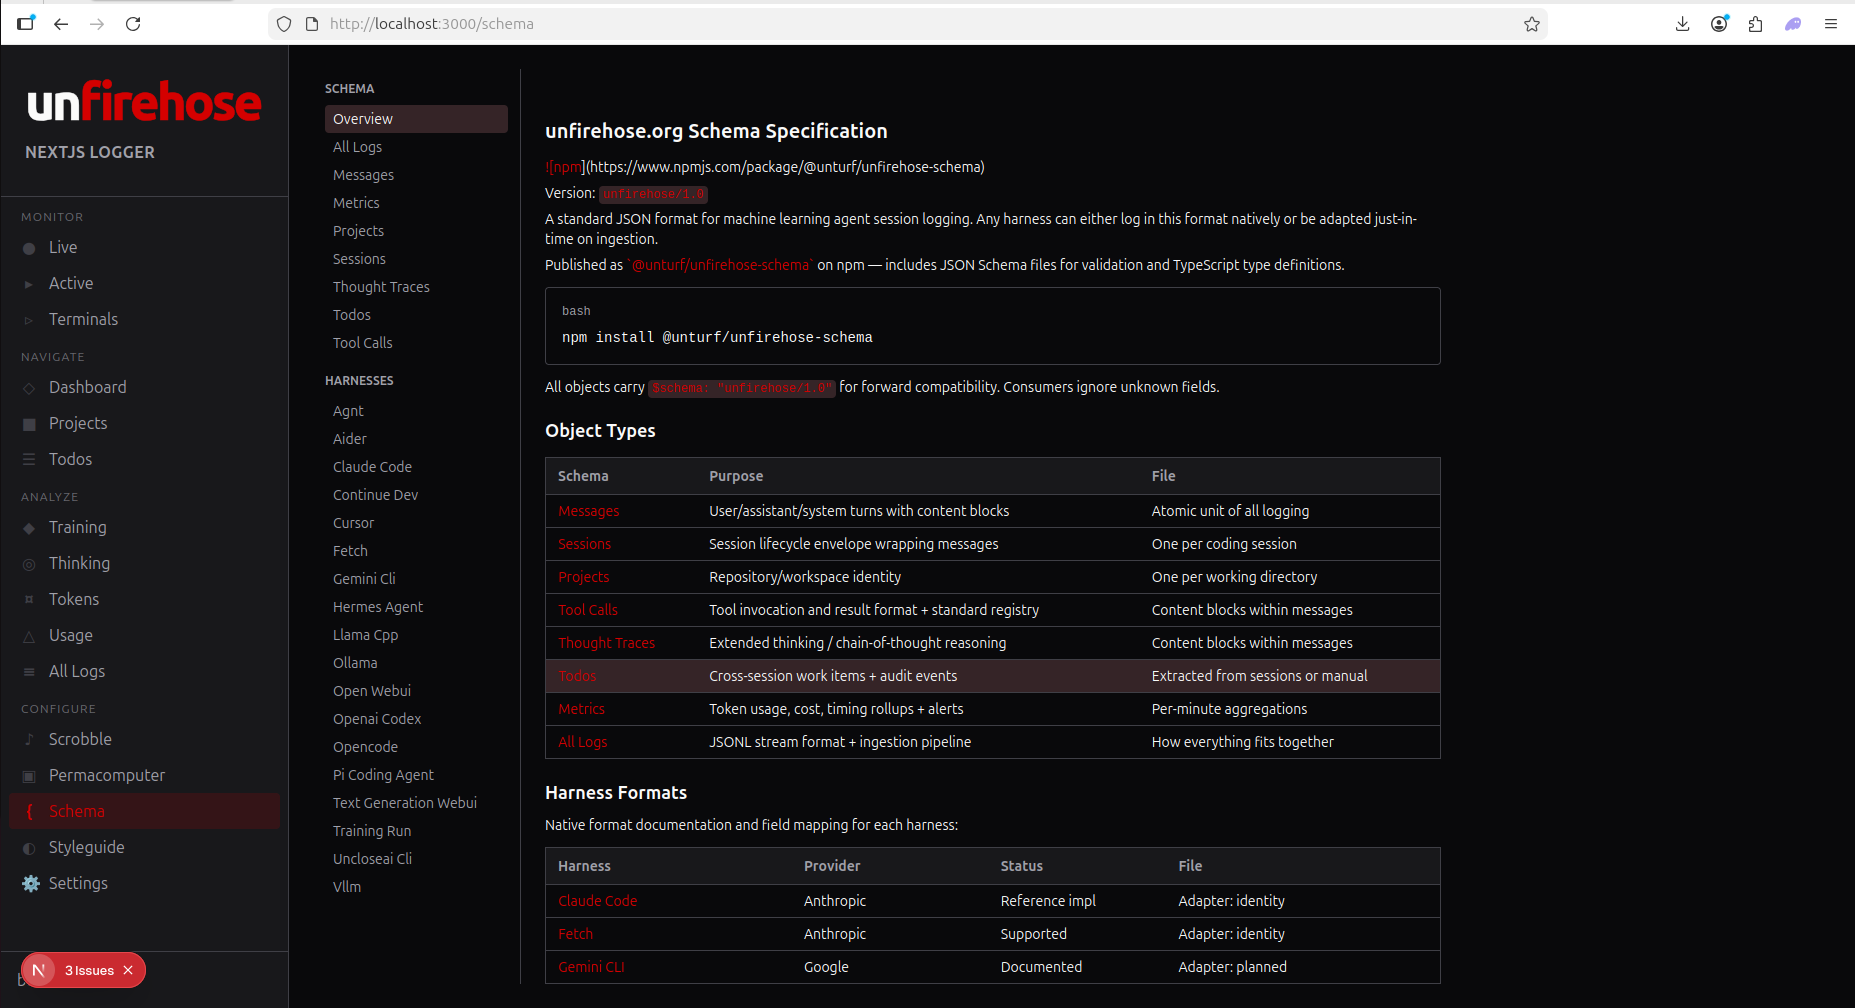
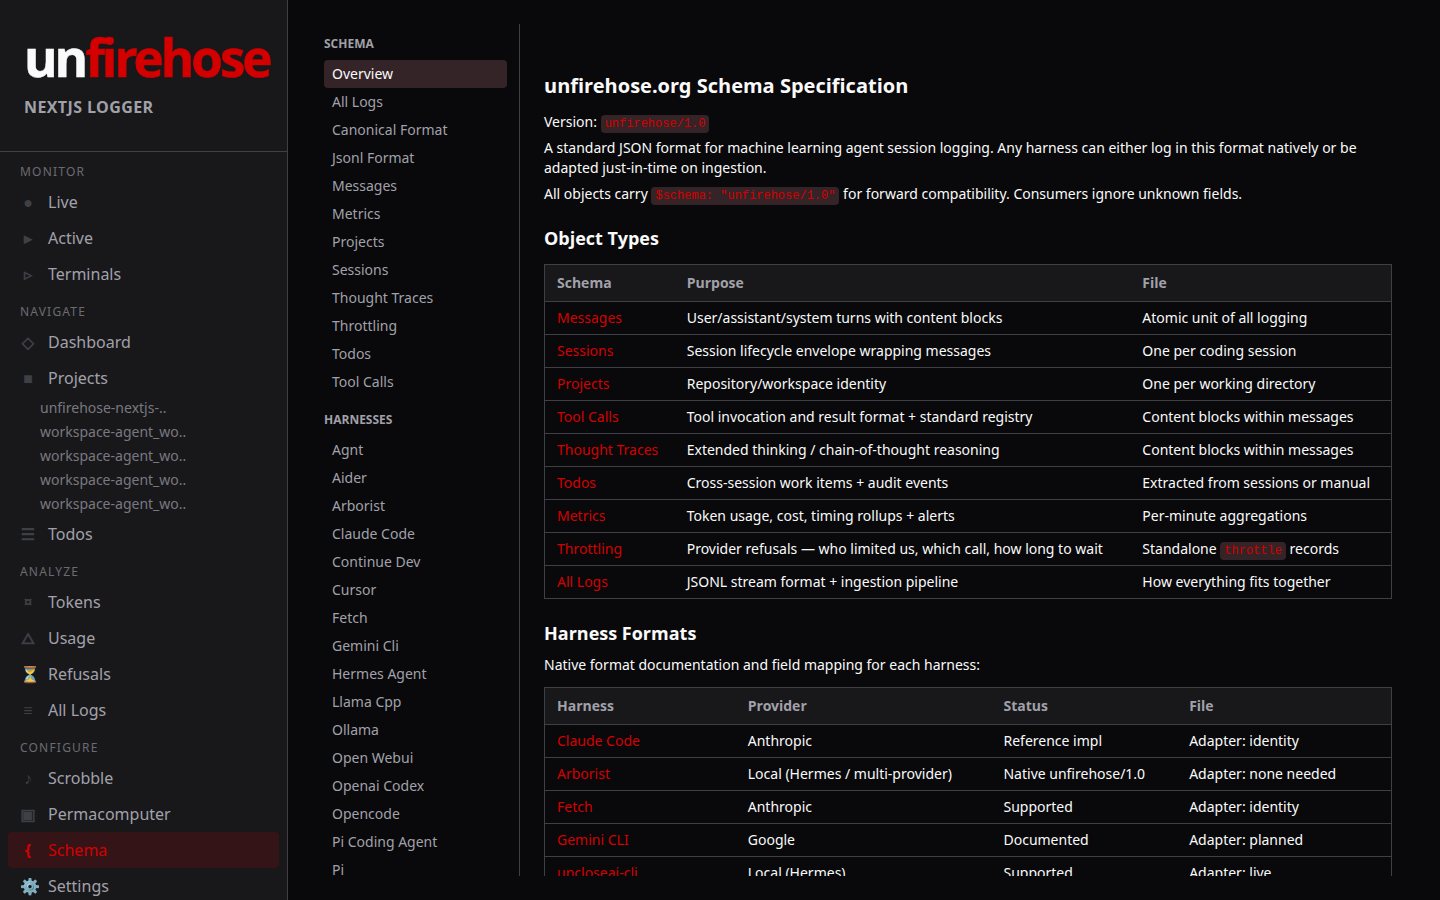
readme: gallery reshot, Refusals documented, stale claims out
The gallery was eleven March screenshots of a product that has moved: it
showed a Training page that no longer exists and a Projects list that names
every repo on the machine, and it had no picture of Refusals at all — the
largest thing built since. Twelve fresh shots, same set the site uses, so
the two galleries stop disagreeing.

Features gains a Refusals entry and an honest Usage Monitor one (calibrated
rules on billable tokens, not the old threshold table). What's new leads with
refusals, vendor status and the price ledger instead of March's headlines.

Also: 16 harness docs is now 19, and we no longer name a specific git server
we do not run.

Changed region(s): [[0.0, 0.0, 1.0, 0.9956], [0.0, 0.1867, 0.2188, 0.9956]]

diff --git a/README.md b/README.md
@@ -20,11 +20,13 @@ unfirehose does all of that, on your laptop, no API keys required.
 
 ## What's new
 
-- **Cost split everywhere** — every model + harness row breaks equivalent cost into input / output / cache-read / cache-write. See which token type is actually costing you on opus-4-7 (spoiler: cache reads).
-- **Reasoning visibility** — Reasoning filter on `/live`, `/active`, `/logs`, and the session viewer. opus-4-7 ships sealed reasoning (signatures, no readable text); we surface that fact honestly with a `·sealed` badge so it isn't mistaken for "no reasoning happened."
-- **Multi-harness** — agnt, uncloseai, fetch, arborist all ingested into the same database as Claude Code. One session viewer, one project list, one token analysis.
-- **Single-source nav** — every page is registered in `packages/ui/components/layout/nav-items.ts`. Sidebar, sitemap, and styleguide derive from the same list, so they can't drift apart.
-- **`?project=` URL filter** — `/tokens` and `/todos` both pre-filter to a single project when the URL carries `?project=<name>`. Project detail pages link straight in.
+- **Refusals** — every throttle, quota hit, overload, timeout and dead model in one page, attributed to the upstream that actually refused. A second tab polls each vendor's own incident feed every minute and probes the ones with no status page, so "is it me or them" stops being six browser tabs.
+- **Alert rules that mean something** — one click calibrates every threshold to 1.5x the p95 of its own window over your last seven days. Billable tokens alert by default; `total_tokens` does not, because cache reads are ~90% of volume at a tenth of the price.
+- **A price book with provenance** — every dollar on every page is booked at the price in force the day the tokens were spent, from five public feeds kept in an append-only ledger.
+- **Cost split everywhere** — every model + harness row breaks equivalent cost into input / output / cache-read / cache-write. See which token type is actually costing you (spoiler: cache reads).
+- **Reasoning visibility** — Reasoning filter on `/live`, `/active`, `/logs`, and the session viewer. Models that ship sealed reasoning (signatures, no readable text) get a `·sealed` badge, so it is never mistaken for "no reasoning happened."
+- **19 harnesses** — Claude Code, uncloseai-cli, agnt, arborist, aider, Cursor, Continue, Gemini CLI, Codex, OpenCode, Pi, Ollama, vLLM, llama.cpp, Open WebUI, text-generation-webui, Fetch and more, all in one database. One session viewer, one project list, one token ledger.
+- **Rename-resilient projects** — identity comes from the git root commit and origin, not the encoded path, so renaming a repo on disk keeps its whole history.
 
 ## Screenshots
 
@@ -49,19 +51,25 @@ Currently running agent sessions across every harness. Each card carries a harne
 ### Live Tailing
 SSE-powered real-time view across every active session. Doom-scrollable feed. Show / hide reasoning. Reasoning-only filter for when you want to focus on what your agents are thinking. Sealed counts surfaced so opus-4-7 sessions don't look broken.
 
+### Refusals
+Every way a provider said no, in one place — and whether the provider admits it.
+- Throttles proper (rate limit, concurrency, quota, overloaded) separated from the other refusals (5xx, timeout, model gone, content policy), because retrying harder fixes none of them and makes concurrency worse
+- A live banner: hard refusals in the last 15 and 60 minutes, regardless of the range the tables below are showing
+- Attributed to the **upstream that actually refused**, not just the harness that got refused — recorded at the moment of failure by harnesses that route across providers, since no downstream text scan can recover it
+- Every row carries its HTTP status; a 529 and a 503 under one kind stay apart
+- A second tab polls each vendor's own incident feed every minute (Anthropic, OpenAI, xAI, OpenRouter) and probes the ones with no status page, so "is it me or them" is one glance
+
 ### Usage Monitor
-Plan billing and alerts:
-- Per-minute token timeline (auto-buckets: minute / hour / day based on window)
-- Per-project usage breakdown with stacked bars
-- Agent Standup — 30-day activity summary per project with recent prompts
-- Prompts correlated with git commits (green badge = committed, yellow = uncommitted, orange = unpushed)
-- Configurable alert thresholds (per-minute, 5min, 15min, hourly windows)
-- Alert history with forensic drill-down detail pages — project + model breakdown, sealed-reasoning surfacing
+Alert rules on the tokens you actually pay for.
+- One click calibrates every threshold to 1.5x the p95 of its own rolling window over your last seven days — hand-guessed plan-tier numbers either never fire or fire every window
+- Billable metrics (uncached input, output) enabled by default; `total_tokens` is off, because cache reads are ~90% of volume at a tenth of the price and alerting on them measures context churn, not spend
+- Moving a threshold acknowledges the alerts that were measured against the old one
+- Breach history per day, with the raw list behind a disclosure
 
 ### Projects
 - Project cards with session count, message volume, and 30-day cost
 - Expandable project detail with git info, remotes, recent commits, CLAUDE.md preview
-- Commit SHAs linked to all upstream remotes (multi-remote mirrors across Gitea, GitHub, GitLab)
+- Commit SHAs linked to all upstream remotes (multi-remote mirrors, whatever you host on)
 - Per-project session browser with git branch context
 - Full session viewer with message timeline, tool calls, reasoning blocks (sealed or readable), and token usage
 - "Token detail →" link drops you into `/tokens?project=…` for the deep breakdown
@@ -111,7 +119,7 @@ This is a Turborepo monorepo. Four packages are published to npm under the [`@un
 | Package | npm | Description |
 |---------|-----|-------------|
 | [`@unturf/unfirehose`](packages/core) | [![npm](https://img.shields.io/npm/v/@unturf/unfirehose)](https://www.npmjs.com/package/@unturf/unfirehose) | Core data layer — ingestion, SQLite schema, types, PII detection, formatters |
-| [`@unturf/unfirehose-schema`](packages/schema) | [![npm](https://img.shields.io/npm/v/@unturf/unfirehose-schema)](https://www.npmjs.com/package/@unturf/unfirehose-schema) | [unfirehose/1.0](packages/schema/docs/README.md) spec — JSON Schema, TypeScript types, 16 harness adapter docs |
+| [`@unturf/unfirehose-schema`](packages/schema) | [![npm](https://img.shields.io/npm/v/@unturf/unfirehose-schema)](https://www.npmjs.com/package/@unturf/unfirehose-schema) | [unfirehose/1.0](packages/schema/docs/README.md) spec — JSON Schema, TypeScript types, 19 harness adapter docs |
 | [`@unturf/unfirehose-router`](packages/router) | [![npm](https://img.shields.io/npm/v/@unturf/unfirehose-router)](https://www.npmjs.com/package/@unturf/unfirehose-router) | CLI daemon — watches JSONL and forwards to cloud |
 | [`@unturf/unfirehose-ui`](packages/ui) | [![npm](https://img.shields.io/npm/v/@unturf/unfirehose-ui)](https://www.npmjs.com/package/@unturf/unfirehose-ui) | Shared React components for dashboard UI |
 
@@ -347,57 +355,95 @@ Built by humans and agents working together. From the first `create-next-app` to
 
 ## Gallery
 
+Every shot is this dashboard running on one developer's machine, taken the day
+it was committed.
+
+### Refusals
+Every way a provider said no, in one place: throttles, quota, overloads, 5xx,
+and models that stopped existing. A banner answers "is it happening right now"
+before any table loads, and each row names the harness, the upstream that
+actually refused, the call, and the status.
+
+![Refusals](docs/screenshots/refusals.png)
+
+### What Vendors Admit
+The second half of the same question. Each provider's own incident feed,
+polled every minute, beside our own counts, so "is it me or them" is one glance
+rather than six browser tabs. A vendor with no status page gets probed directly
+and the card says that is what happened.
+
+![Vendor status](docs/screenshots/vendor-status.png)
+
 ### Dashboard
-Time-range filtered overview: session count, message volume, model distribution, equivalent API cost. Activity charts by day and hour with automatic timezone detection. Model usage donut with per-model cost breakdown.
+Time-range filtered overview: session count, message volume, model
+distribution, equivalent API cost. Activity by day and hour with automatic
+timezone detection, and a day-by-hour hotspot overlay showing when agents run
+hottest.
 
 ![Dashboard](docs/screenshots/dashboard.png)
 
 ### Live Feed
-Real-time SSE stream of all active sessions. Watch agents work as they stream responses, make tool calls, and reason. Color-coded by harness (Claude Code, Fetch, uncloseai, agnt). Reasoning-only filter to focus on the thinking part.
+Real-time SSE stream across every active session. Watch agents work as they
+stream responses, call tools, and reason. Colour-coded by harness, with a
+reasoning-only filter for when the thinking is the point.
 
 ![Live Feed](docs/screenshots/live-feed.png)
 
-### Active Sessions
-Grid of currently running agent sessions. Each card shows harness type, project, model, message count, elapsed time, and a reasoning indicator (with sealed-by-Anthropic disclosure for opus-4-7).
+### Tokens
+Per-model and per-harness breakdown with the **full cost split** — input,
+output, cache-read, cache-write — booked at the price in force on the day the
+tokens were spent, from public price books kept in an append-only ledger. Cache
+hit rate expressed as a rate, and prefix-cache counters measured on our own
+inference nodes.
 
-![Active Sessions](docs/screenshots/active-sessions.png)
-
-### Projects
-All discovered projects with session count, message volume, and 30-day cost. Dynamic commit badges show git activity. Distinguishes "no projects yet" from "all clean across N projects" — fresh installers get a Get Started panel.
-
-![Projects](docs/screenshots/projects.png)
+![Tokens](docs/screenshots/token-usage.png)
 
 ### Project Detail
-Single project deep-dive: agent prompt dispatch, open tasks, recent sessions, in-day usage share. "Token detail →" link drops you into `/tokens?project=…` for the full cost-split breakdown. Boot agents directly from the card.
+Single project deep-dive: sessions, commits, open todos, cost by model, top
+tools, 30-day usage share, and a prompt box to boot an agent on it. Rename the
+repo on disk and its history follows — identity comes from the git root commit,
+not the path.
 
 ![Project Detail](docs/screenshots/project-detail.png)
 
+### Todo Kanban
+Cross-session todos extracted from every agent conversation across every
+harness. Pending, in-progress and completed lanes, with time estimates,
+dependency graphs and file attachments.
+
+![Todo Kanban](docs/screenshots/kanban-board.png)
+
 ### Scrobble
-GitHub-style activity heatmap (rows = days, columns = hours), hour-of-day distribution, daily cost chart, streak tracking. Your coding pattern at a glance. Opt-in; per-project visibility (public / unlisted / private).
+Activity heatmap (rows = days, columns = hours), hour-of-day distribution,
+daily cost, streak tracking. Your coding pattern at a glance. Opt-in, with
+per-project visibility.
 
 ![Scrobble](docs/screenshots/scrobble.png)
 
-### Token Usage
-Per-model and per-harness token breakdown with **full cost split** — input / output / cache-read / cache-write. Equivalent API cost at current rates. Cache efficiency shown in context. `?project=<name>` URL filter for project-scoped analysis.
-
-![Token Usage](docs/screenshots/token-usage.png)
-
-### Usage Monitor
-Plan billing and alerts: per-minute token timeline, configurable alert thresholds, agent standup with per-project bars. Red banner when usage spikes exceed limits.
-
-![Usage Monitor](docs/screenshots/usage-monitor.png)
-
 ### Permacomputer Mesh
-Mesh overview: node economics (cost / mo, $ / core), power consumption, resource allocation bars. Bootstrap panel for deploying harnesses to SSH nodes via tmux.
+Mesh overview: node economics, power draw and electricity cost, resource
+allocation, fleet metrics over time. Bootstrap panel for deploying harnesses to
+SSH nodes via tmux.
 
 ![Permacomputer](docs/screenshots/permacomputer.png)
 
+### Node Detail
+Every sensor a machine will admit to: package temperature, fan duty, clock
+against rated speed, and throttle events counted since boot. A laptop cooking
+at 82°C is doing your work badly, and this is the page that says so.
+
+![Node Detail](docs/screenshots/node-detail.png)
+
 ### Schema Browser
-Browse the unfirehose/1.0 spec directly in the dashboard. Object types, harness adapter docs, field mapping tables. Published as `@unturf/unfirehose-schema` on npm.
+Browse the unfirehose/1.0 spec in the dashboard: object types, field mapping
+tables, and an adapter doc for each supported harness. Published as
+`@unturf/unfirehose-schema` on npm.
 
 ![Schema](docs/screenshots/schema.png)
 
-### Settings
-Profile, plan tiers, local data paths, git auto-push config, vault for BYO LLM keys. Self-hosted AGPL-3.0 — your data stays on your machine.
+### Make It Yours
+Any accent colour you like, with a tonal scale derived from it, and forty
+display currencies to read costs in. No account, no telemetry, nothing leaves
+the machine.
 
-![Settings](docs/screenshots/settings.png)
+![Appearance](docs/screenshots/settings.png)
